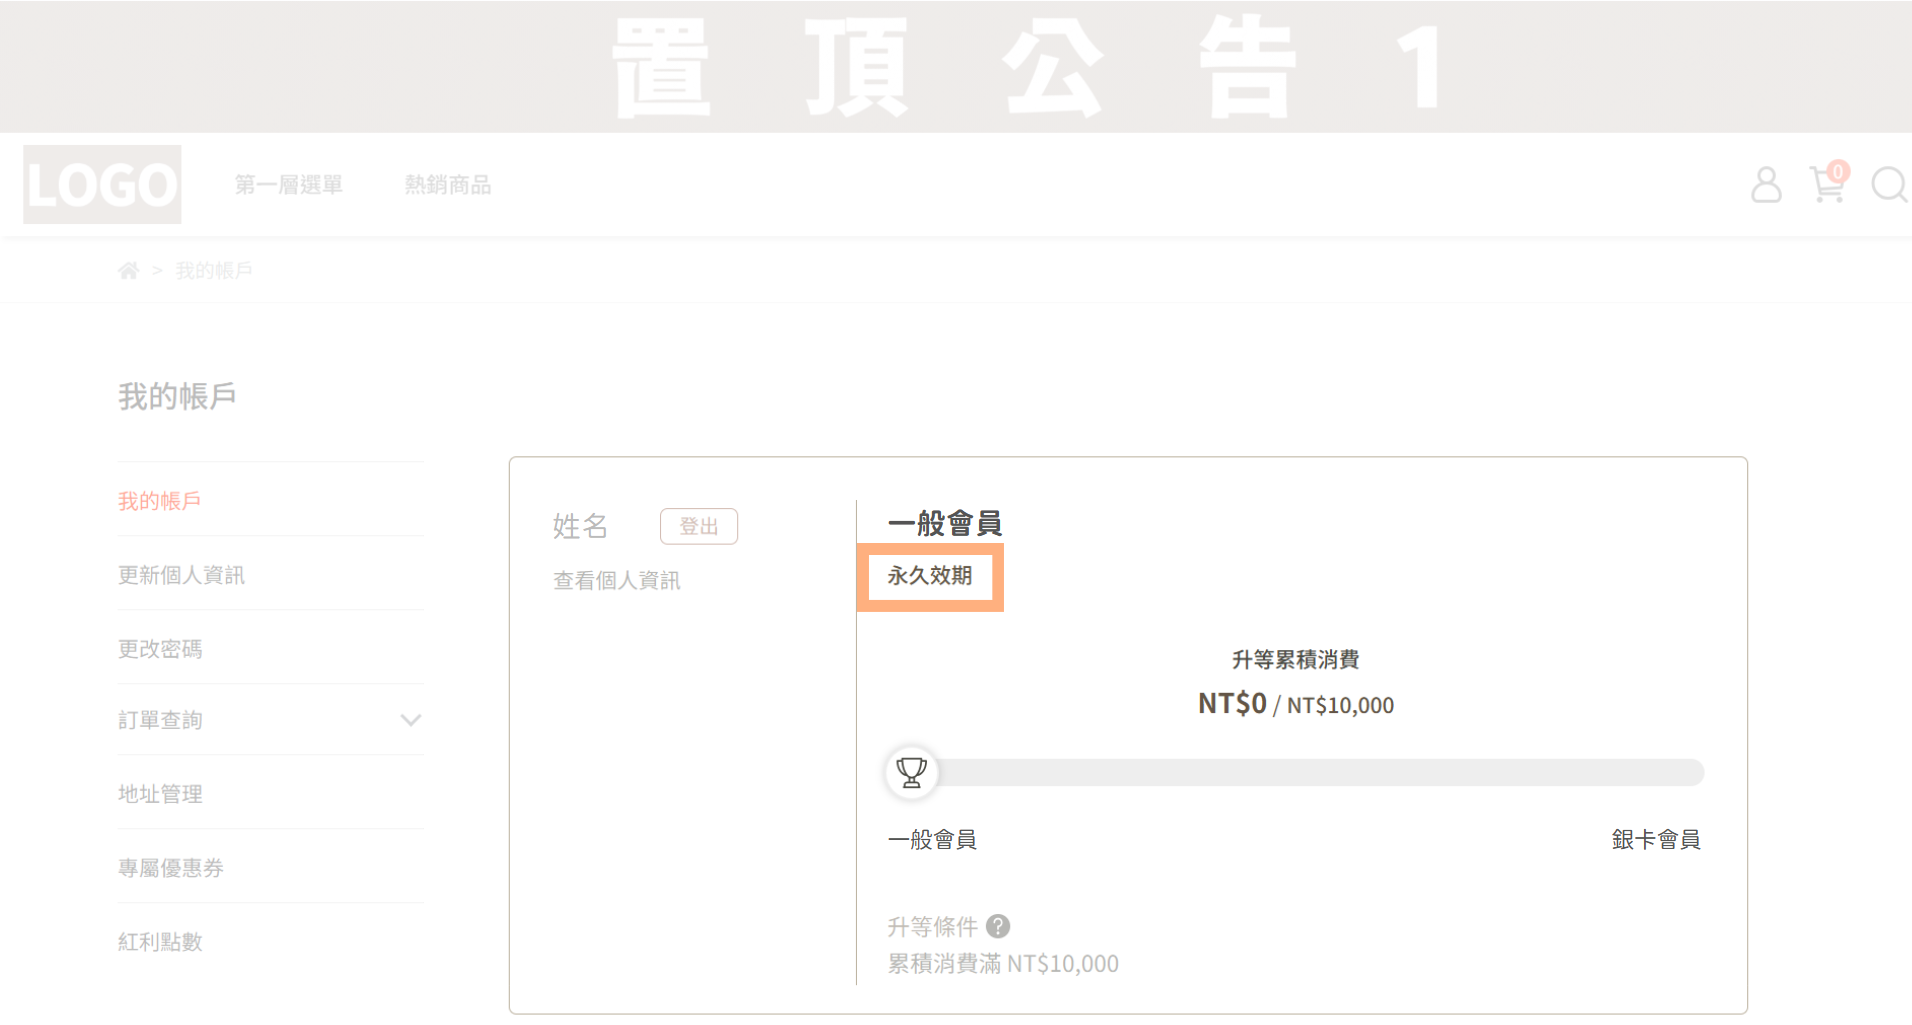
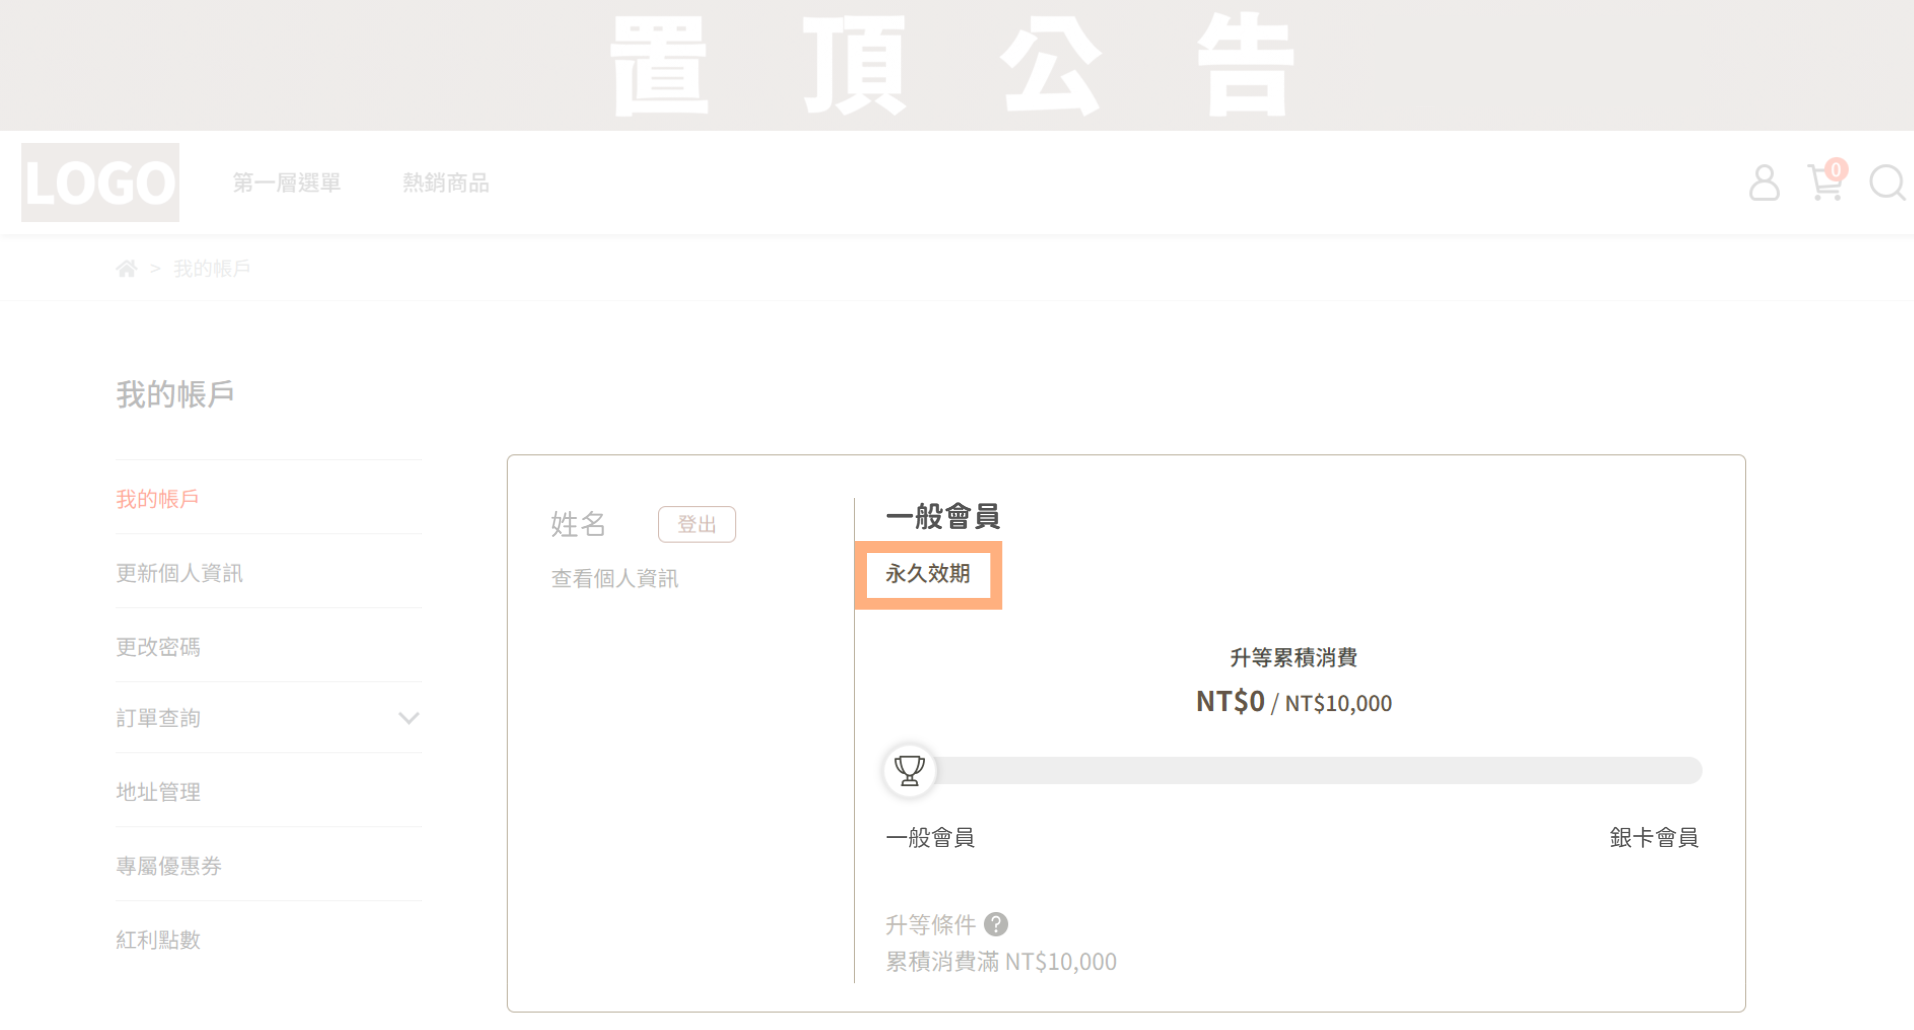
新功能報報微調

diff --git a/docs/resources/new-release/2026-06.md b/docs/resources/new-release/2026-06.md
@@ -1,8 +1,10 @@
 ---
 title: 2026 年 06 月新功能報報
-description: 推出紅利商城、後台操作紀錄與白名單功能，並優化 Excel 優惠券匯入、Sitemap 自動產生與 POS 客顯系統。
 last_modified: 2026-07-01 14:50
 type: reference
+lang: zh-TW
+author: Ann
+related: []
 permalink: "https://help.cyberbiz.io/resources/new-release/2026-06/"
 search:
   exclude: true
@@ -26,24 +28,24 @@ hide: []
   <div style="margin-bottom: 16px;">
     <div style="display: flex; align-items: center; font-size: 16px; color: #666666; font-weight: bold; margin-top: 16px; margin-bottom: 12px;">
       <span style="margin-right: 8px; line-height: 1;">🚀</span>
-      <span style="text-decoration: cursor: pointer;"><a href="#a">本月重點功能</a></span>
+      <span style="cursor: pointer;"><a href="#a" style="text-decoration: none;">本月重點功能</a></span>
     </div>
     
-    <div style="padding-left: 28px; font-size: 16px; color: #666666; line-height: 1.8;">
-      <div style="margin-bottom: 12px;"><span style="text-decoration: cursor: pointer;"><a href="#a1">1. 滿額／滿件贈支援限定會員分群贈送</a></span></div>
+  <div style="padding-left: 28px; font-size: 16px; color: #666666; line-height: 1.8;">
+      <div style="margin-bottom: 12px;"><span style="cursor: pointer;"><a href="#a1" style="text-decoration: none;">1. 滿額／滿件贈支援限定會員分群贈送</a></span></div>
     </div>
   </div>
 
   <div>
     <div style="display: flex; align-items: center; font-size: 16px; color: #666666; font-weight: bold; margin-bottom: 12px;">
       <span style="margin-right: 8px; line-height: 1; color: #f59e0b;">⚡</span>
-      <span style="text-decoration: cursor: pointer;"><a href="#b">功能優化</a></span>
+      <span style="cursor: pointer;"><a href="#b" style="text-decoration: none;">功能優化</a></span>
     </div>
     
     <div style="padding-left: 28px; font-size: 16px; color: #666666; line-height: 1.8;">
-      <div style="margin-bottom: 12px;"><span style="text-decoration: cursor: pointer;"><a href="#b1">1. VIP 會員層級效期新增無期限設定</a></span></div>
-      <div style="margin-bottom: 12px;"><span style="text-decoration: cursor: pointer;"><a href="#b2">2. 結帳頁自動帶入可折抵紅利點數開關</a></span></div>
-      <div style="margin-bottom: 4px;"><span style="text-decoration: cursor: pointer;"><a href="#b3">3. 電腦版商品圖游標懸停效果：擴充適用頁面</a></span></div>
+      <div style="margin-bottom: 12px;"><span style="cursor: pointer;"><a href="#b1" style="text-decoration: none;">1. VIP 會員層級效期新增無期限設定</a></span></div>
+      <div style="margin-bottom: 12px;"><span style="cursor: pointer;"><a href="#b2" style="text-decoration: none;">2. 結帳頁自動帶入可折抵紅利點數開關</a></span></div>
+      <div style="margin-bottom: 4px;"><span style="cursor: pointer;"><a href="#b3" style="text-decoration: none;">3. 電腦版商品圖游標懸停效果：擴充適用頁面</a></span></div>
     </div>
   </div>
 
@@ -135,10 +137,6 @@ hide: []
     
     <h3 id="b2" style="font-size: 22px; font-weight: bold; color: #222222; margin: 0 0 16px 0; line-height: 1.3;">2. 結帳頁自動帶入可折抵紅利點數開關</h3>
 
-    <div style="display: flex; gap: 8px; margin-bottom: 24px;">
-      <span style="background-color: #FEF3C7; color: #D97706; font-size: 16px; font-weight: 500; padding: 2px 8px; border-radius: 4px; white-space: nowrap;">#全版本</span>
-    </div>
-
     <div style="color: #4B5563; font-size: 18px; line-height: 1.75; margin-bottom: 32px;">
       <p style="margin: 0 0 8px 0;">結帳頁預設自動帶入會員可用紅利點數，造成會員誤用點數，衍生客服詢問？</p>
       <p style="margin: 0;">後台新增「結帳頁自動帶入會員紅利」開關，您可依照會員使用情況或品牌點數經營策略，調整結帳頁是否自動帶入紅利點數，關閉後由會員自行決定使用數量，提升點數運用的彈性。</p>
@@ -167,10 +165,6 @@ hide: []
   <div style="background-color: #ffffff; border: 1px solid #E5E7EB; border-radius: 16px; box-shadow: 0 1px 3px 0 rgba(0, 0, 0, 0.1); padding: 32px; box-sizing: border-box;">
     
     <h3  id="b3" style="font-size: 22px; font-weight: bold; color: #222222; margin: 0 0 16px 0; line-height: 1.3;">3. 電腦版商品圖游標懸停效果：擴充適用頁面</h3>
-
-    <div style="display: flex; gap: 8px; margin-bottom: 24px;">
-      <span style="background-color: #FEF3C7; color: #D97706; font-size: 16px; font-weight: 500; padding: 2px 8px; border-radius: 4px; white-space: nowrap;">#全版本</span>
-    </div>
     
     <div style="color: #4B5563; font-size: 18px; line-height: 1.75; margin-bottom: 32px;">
       <p style="margin: 0 0 8px 0;">希望提升商品展示質感，讓顧客瀏覽商品時更有互動感？</p>

diff --git a/docs/resources/new-release/2026-05.md b/docs/resources/new-release/2026-05.md
@@ -1,12 +1,16 @@
 ---
 title: 2026 年 05 月新功能報報
-description: 推出 Chat Box 訊息通整合社群訊息、組合品支援固定與任選混搭、7-11 C2C 退貨便功能，以及滿額贈自選款式與網站視覺優化。
 last_modified: 2026-06-29 19:30
 type: reference
+lang: zh-TW
+author: Ann
 related: []
+wp_url:
+  - https://www.cyberbiz.io/helpcenter/?p=13033
+  - https://www.cyberbiz.io/support/?p=53869	
 permalink: "https://help.cyberbiz.io/resources/new-release/2026-05/"
 search:
-  exclude: true
+  exclude: false
 icon: lucide/megaphone
 hide: []
 ---
@@ -27,26 +31,26 @@ hide: []
   <div style="margin-bottom: 16px;">
     <div style="display: flex; align-items: center; font-size: 16px; color: #666666; font-weight: bold; margin-top: 16px; margin-bottom: 12px;">
       <span style="margin-right: 8px; line-height: 1;">🚀</span>
-      <span style="text-decoration: cursor: pointer;"><a href="#a">本月重點功能</a></span>
+      <span style="cursor: pointer;"><a href="#a" style="text-decoration: none;">本月重點功能</a></span>
     </div>
     
     <div style="padding-left: 28px; font-size: 16px; color: #666666; line-height: 1.8;">
-      <div style="margin-bottom: 12px;"><span style="text-decoration: cursor: pointer;"><a href="#a1">1. Chat Box 訊息通 </a></span></div>
-      <div style="margin-bottom: 12px;"><span style="text-decoration: cursor: pointer;"><a href="#a2">2. 組合品可同時支援固定及任選情境</a></span></div>
-      <div style="margin-bottom: 12px;"><span style="text-decoration: cursor: pointer;"><a href="#a3">3. 後台發動 7-11 C2C 退貨便功能</a></span></div>
+      <div style="margin-bottom: 12px;"><span style="cursor: pointer;"><a href="#a1" style="text-decoration: none;">1. Chat Box 訊息通 </a></span></div>
+      <div style="margin-bottom: 12px;"><span style="cursor: pointer;"><a href="#a2" style="text-decoration: none;">2. 組合品可同時支援固定及任選情境</a></span></div>
+      <div style="margin-bottom: 12px;"><span style="cursor: pointer;"><a href="#a3" style="text-decoration: none;">3. 後台發動 7-11 C2C 退貨便功能</a></span></div>
     </div>
   </div>
 
   <div>
     <div style="display: flex; align-items: center; font-size: 16px; color: #666666; font-weight: bold; margin-bottom: 12px;">
       <span style="margin-right: 8px; line-height: 1; color: #f59e0b;">⚡</span>
-      <span style="text-decoration: cursor: pointer;"><a href="#b">功能優化</a></span>
+      <span style="cursor: pointer;"><a href="#b" style="text-decoration: none;">功能優化</a></span>
     </div>
     
     <div style="padding-left: 28px; font-size: 16px; color: #666666; line-height: 1.8;">
-      <div style="margin-bottom: 12px;"><span style="text-decoration: cursor: pointer;"><a href="#b1">1. 滿額/滿件贈可自選贈品款式</a></span></div>
-      <div style="margin-bottom: 12px;"><span style="text-decoration: cursor: pointer;"><a href="#b2">2. 前台導覽列支援字體大小設定</a></span></div>
-      <div style="margin-bottom: 4px;"><span style="text-decoration: cursor: pointer;"><a href="#b3">3. 前台商品圖圓角設定</a></span></div>
+      <div style="margin-bottom: 12px;"><span style="cursor: pointer;"><a href="#b1" style="text-decoration: none;">1. 滿額/滿件贈可自選贈品款式</a></span></div>
+      <div style="margin-bottom: 12px;"><span style="cursor: pointer;"><a href="#b2" style="text-decoration: none;">2. 前台導覽列支援字體大小設定</a></span></div>
+      <div style="margin-bottom: 4px;"><span style="cursor: pointer;"><a href="#b3" style="text-decoration: none;">3. 前台商品圖圓角設定</a></span></div>
     </div>
   </div>
 
@@ -79,13 +83,6 @@ hide: []
       <span style="color: #4B5563;">APP MARKET → Chat Box</span>
     </div>
     
-
-
-    <div style="display: flex; justify-content: flex-end;">
-    <a href="https://lihi1.me/AH9hp" style="display: inline-block; background-color: #fc7623; color: #ffffff; font-size: 18px; font-weight: 500; text-decoration: none; padding: 8px 20px; border-radius: 9999px; transition: background-color 0.2s ease; cursor: pointer;" target="_blank" rel="noopener">
-      立即報名 06/10 功能說明會
-    </a>
-    </div><br>
 
     <div style="display: flex; justify-content: flex-end;">
     <a href="https://www.cyberbiz.io/support/?p=52916" style="display: inline-block; background-color: #00338c; color: #ffffff; font-size: 18px; font-weight: 500; text-decoration: none; padding: 8px 20px; border-radius: 9999px; transition: background-color 0.2s ease; cursor: pointer;" target="_blank" rel="noopener">
